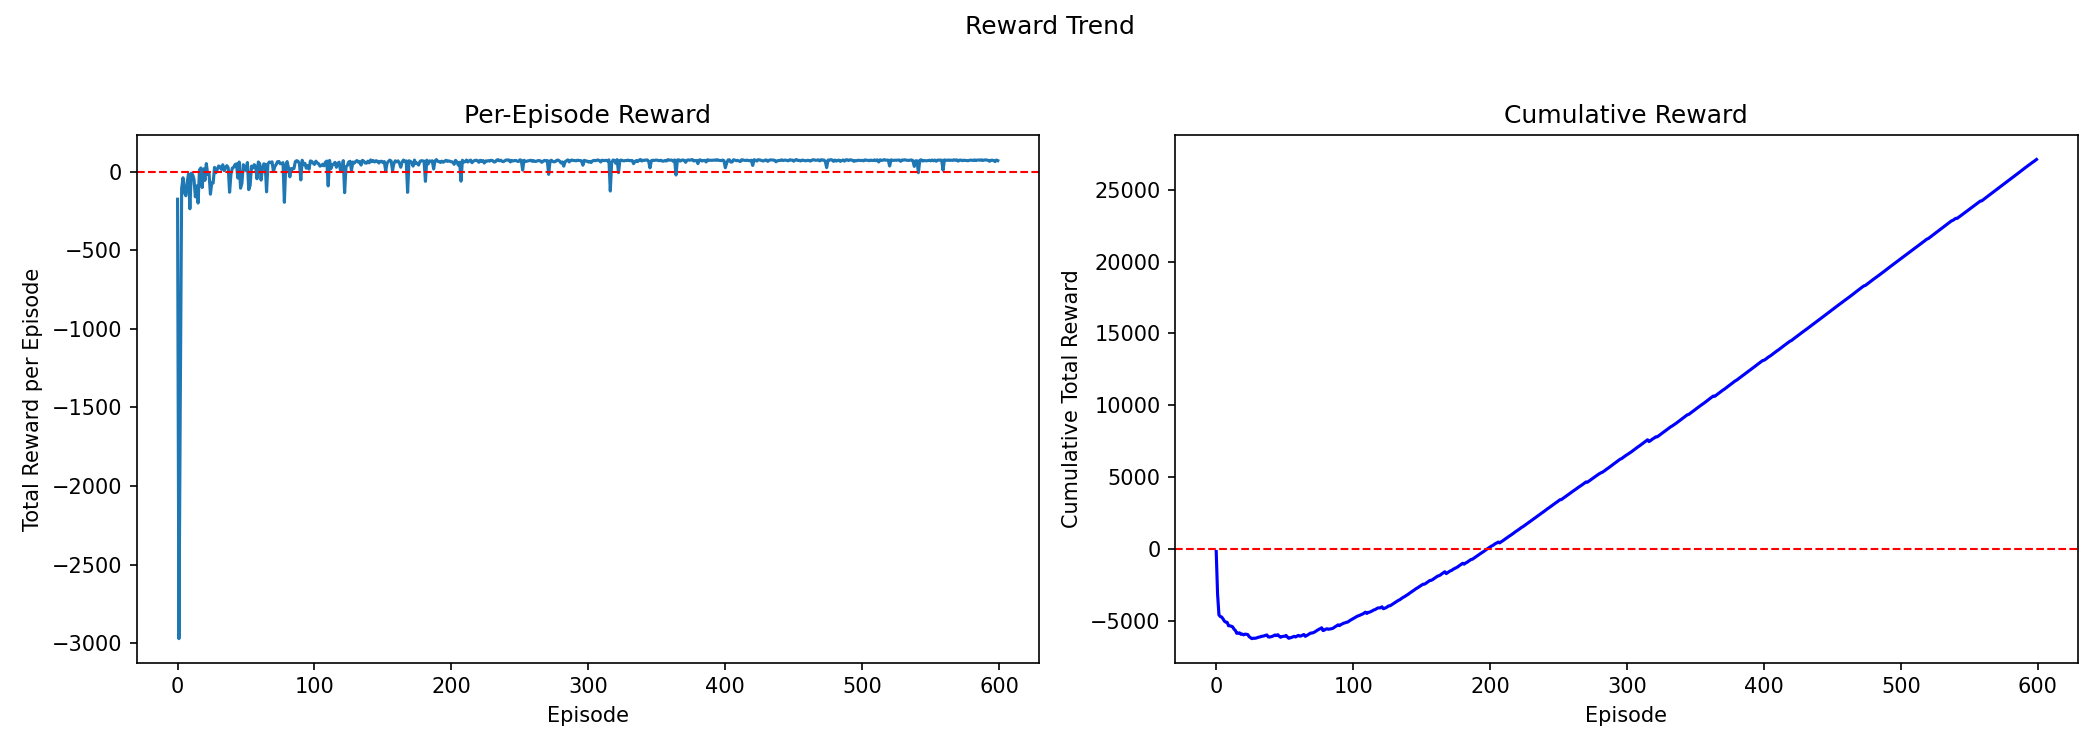
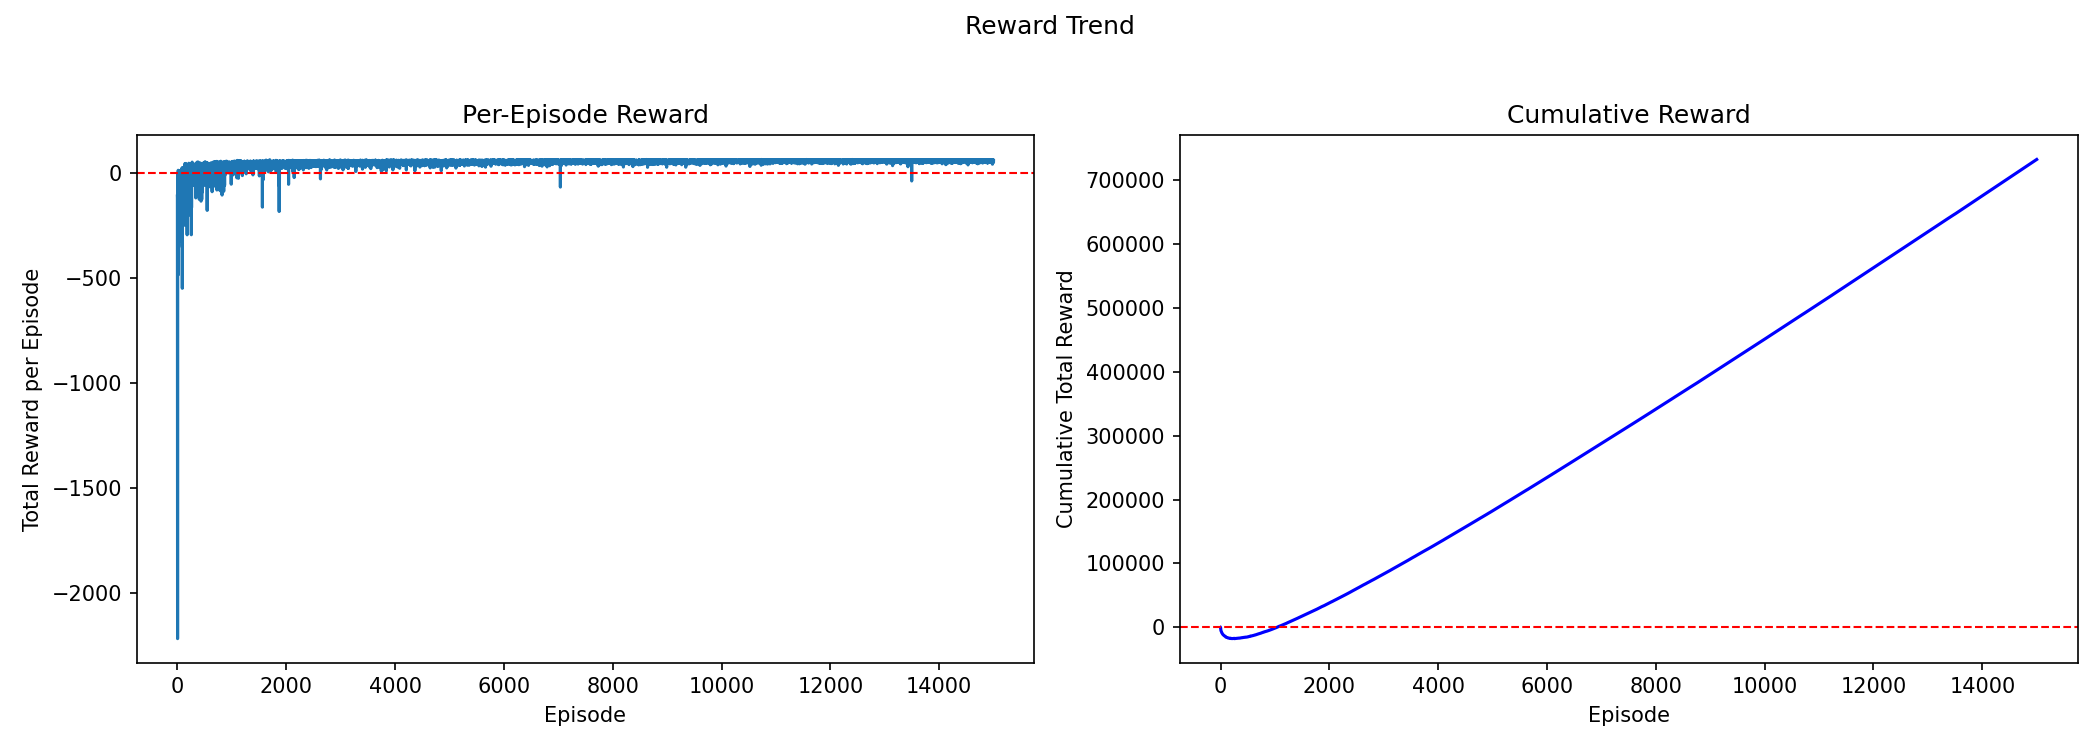
tuning + good shaping

diff --git a/main.py b/main.py
@@ -354,7 +354,13 @@ class Trainer:
         if not all_collected and unpicked_objects:
             old_dist = min(self.manhattan_distance(prev_pos, obj.position) for obj in unpicked_objects)
             new_dist = min(self.manhattan_distance(current_pos, obj.position) for obj in unpicked_objects)
-            reward += 0.05 * (old_dist - new_dist)
+            #reward += 0.05 * (old_dist - new_dist)
+            if new_dist < old_dist:
+                reward += 0.15 # getting closer
+            elif new_dist > old_dist:
+                reward -= 0.15 # wrong direction penalty
+            else:
+                reward -= 0.35 # no movement penalty
 
             # Penalize moving toward the station before all objects are collected
             old_station = self.manhattan_distance(prev_pos, self.grid.delivery_station)
@@ -365,7 +371,13 @@ class Trainer:
         elif all_collected:
             old_station = self.manhattan_distance(prev_pos, self.grid.delivery_station)
             new_station = self.manhattan_distance(current_pos, self.grid.delivery_station)
-            reward += 0.05 * (old_station - new_station)
+            #reward += 0.05 * (old_station - new_station)
+            if new_station < old_station:
+                reward += 0.4
+            elif new_station >= old_station:
+                reward -= 0.3 # do not move further from station after collecting all objects
+            else:
+                reward -= 0.2 # no movement penalty
 
         return reward
 
@@ -396,6 +408,7 @@ class Trainer:
         actions = self.get_joint_action(joint_action_idx)
         total_reward = 0
         previous_positions = [agent.position for agent in self.grid.agents]
+        agents_getting_closer = 0
         outcome = []
         
         # Apply actions
@@ -411,21 +424,40 @@ class Trainer:
         reached_goal = False
 
         for (agent,prev_pos), (success, attempted_position) in zip(zip(self.grid.agents, previous_positions), outcome):
+            
             if not success: # wall or out of bounds
                 total_reward -= 0.5
+           
             else:
                 is_picked = False # flag for a picked object
+                
                 for obj in self.grid.objects:
                     if not obj.picked and agent.position == obj.position:
                         obj.set_picked(True)
-                        total_reward += 10 # Reward for one picked object 
+                        total_reward += 8 # Reward for one picked object 
                         is_picked = True
                         break
+                
                 if not is_picked:
                     total_reward -= 0.04
 
                 # Add potential-based attraction reward
                 total_reward += self.dynamic_reward(prev_pos, agent.position, unpicked_objects, all_collected)
+
+                if not all_collected and unpicked_objects:
+                    old_dist = min(self.manhattan_distance(prev_pos, obj.position) for obj in unpicked_objects)
+                    new_dist = min(self.manhattan_distance(agent.position, obj.position) for obj in unpicked_objects)
+
+                    if new_dist < old_dist:
+                        agents_getting_closer += 1
+
+        if not all_collected: # forcing both agents to contribute to the task
+            if agents_getting_closer == len(self.grid.agents):
+                total_reward += 0.5
+            elif agents_getting_closer == 1:
+                total_reward -= 0.4
+            else:
+                total_reward -= 0.8
 
         # Recompute object status after any pickups
         unpicked_objects = []
@@ -442,7 +474,7 @@ class Trainer:
 
             all_on_station = all(agent.position == self.grid.delivery_station for agent in self.grid.agents)
             if all_on_station:
-                total_reward += 50  # goal reward
+                total_reward += 30  # goal reward
                 reached_goal = True
 
         return total_reward, reached_goal
@@ -552,13 +584,14 @@ class Trainer:
             nonlocal done
             
             ax.clear()
+            ax.set_title(f"Frame {frame}")
             # Show first frame with initial grid
             if frame == 0:
                 self.grid.plot_grid(fig=fig, ax=ax)
                 return []
             
             state = self.get_state_index()
-            action = self.select_action(state)
+            action = np.argmax(self.q_table[state])
             reward, done = self.step(action)
             self.grid.plot_grid(fig=fig, ax=ax)
             return []
@@ -571,12 +604,12 @@ if __name__ == "__main__":
 
 # - - - HYPERPARAMETERS CONFIGURATION - - -
     
-    HP_C1 = 10000
-    HP_C2 = 35000
-    HP_D1 = 25000
-    HP_D2 = 25000 # d1 e d2 vanno messi alti
+    HP_C1 = 101000
+    HP_C2 = 202000
+    HP_D1 = 250000
+    HP_D2 = 250000 # d1 e d2 vanno messi alti
     HP_GAMMA = 0.9
-    HP_EPISODES = 600
+    HP_EPISODES = 15000
 
     g = Grid(8)
     g.populate(AGENTS, OBJECTS)
@@ -641,7 +674,7 @@ if __name__ == "__main__":
     print("Starting demo ...")
     while not done and steps < 100000:
         state = trainer.get_state_index()
-        action = trainer.select_action(state)
+        action = np.argmax(trainer.q_table[state])
         reward, done = trainer.step(action)
         steps += 1
         # g.render()

diff --git a/README.md b/README.md
@@ -5,10 +5,12 @@
 The goal of this project work is to implement the Q-learning algorithm, in the tabular sense, in a grid world consisting which simulates in a roughly way a warehouse with walls, two agents, three packages and a delivey station.
 
 Q-learning is a reinforcement learning algorithm that trains one or more agents to assign values to its possible actions based on its current state, without requiring a model of the environment.
-The first theoretical step is to write Bellman's optimality equation with respect to the optimal action value function: 
+The first theoretical step is to write Bellman's optimality equation with respect to the optimal action value function:
+
 $$Q^\circ(x, u) = r(x, u) + \gamma \sum_{x'\in X} \varphi(x' | x, u) \max_{u'} Q^\circ(x', u')$$
 
 Where:
+
 - $X$ is the state space.
 - $U$ is the action space.
 - $r(x, u)$ is the instant reward at the current istant.
@@ -19,12 +21,14 @@ Where:
 Note that this formula calculates the expected value of a maximum and is therefore suitable for sample implementation.
 
 Working with a grid the following assumptions apply:
+
 - $X$ of finite and discrete size.
 - $U$ of finite and discrete size.
 
 Then, having sufficient memory and given those assumptions, the optimal action value function can be represented as a matrix which links every pair action-value. The matrix has rows equal to the number of states and columns equal to the number of actions.
 
 The algorithm consists of the following steps:
+
 1. At time t, we are in state $x(t)$, we apply the action $u(t)$ and w observe the reward $r(t)$ and the new state $x(t+1)$.
 
 2. We update the estimated value of the pair $(x(t), u(t))$ using Temporal Difference:
@@ -32,11 +36,13 @@ The algorithm consists of the following steps:
 ```math
 \hat{Q}_{t+1}(x(t), u(t)) = r(t) + \gamma \max_{u'} Q_t(x(t+1), u')
 ```
+
 ```math
 Q_{t+1}(x(t), u(t)) = Q_t(x(t), u(t)) + \alpha(t)[\hat{Q}_{t+1}(x(t), u(t)) - Q_t(x(t), u(t))]
 ```
 
 where:
+
 - $\hat{Q}_{t+1}(x(t), u(t))$ sample estimate of $Q^\circ(x, u)$
 - $\gamma$ discount factor
 - $\alpha(t)$ learning rate
@@ -47,9 +53,9 @@ where:
 {Q}_{t+1}(x,u) = {Q}_{t}(x,u) if (x,u) \neq (x(t), u(t))
 ```
 
-Being this an off policy method we want to find the optimal policy. The action value function found in the algorithm converge to the optimal one if: 
-1. All the action-state pairs are visited endlessly. This is guaranteed by an $\epsilon$-greedy policy. This policy allow to choose randomly between a greedy action or a random one.
-2. The learning rate decreases sufficiently slowly. This is guaranteed if we chose $\alpha = \frac{c_{1}}{c_{2} + t}$. Where t is the current iteration.
+Being this an off policy method we want to find the optimal policy. The action value function found in the algorithm converge to the optimal one if:
+    1. All the action-state pairs are visited endlessly. This is guaranteed by an $\epsilon$-greedy policy. This policy allow to choose randomly between a greedy action or a random one.
+    2. The learning rate decreases sufficiently slowly. This is guaranteed if we chose $\alpha = \frac{c_{1}}{c_{2} + t}$. Where t is the current iteration.
 
 ## Implementation
 
@@ -68,48 +74,49 @@ The goal of the agents is to pick every object and then 'deliver' them to the st
 </p>
 
 The shaping of the reward has been done in the following way:
-- When the agents crush into a wall or would have gone out of bound a reward of -0.5 is given, so that those events are avoided.
-- A reward of of -0.04 is given for every empty cell so that agents are encouraged to explore.
-- When an object is picked a reward of +10 is given.
-- When both of them are on the delivery station and they have picked all of the objects the goal is reached and they recieve a reward of +50.
+    - When the agents crush into a wall or would have gone out of bound a reward of -0.5 is given, so that those events are avoided.
+    - A reward of of -0.04 is given for every empty cell so that agents are encouraged to explore.
+    - When an object is picked a reward of +10 is given.
+    - When both of them are on the delivery station and they have picked all of the objects the goal is reached and they recieve a reward of +50.
 
 Since it has been observed during sperimentation that the main problem was getting stuck in local minimums and the Q-table was sparse, it has been decided to implement some potential-based rewards using a simple Manhattan attraction. So, all of the objects have an attractive potential that is turned of singularly when one of them in picked. After every one of them is picked a potential for the delivey station is activated. In both cases a reward of +0.05 is given for getting closer the current 'subgoal'.
 
-To avoid a rapid decay of epsilon like with the classic formula $\epsilon = \frac{1}{t}$, it has been implemented as: 
+To avoid a rapid decay of epsilon like with the classic formula $\epsilon = \frac{1}{t}$, it has been implemented as:
 $\epsilon = \frac{d_1}{d_2+t}$.
 
 These measures have proven effective in avoiding local minima.
 
-# Final considerations
+In the reward shaping progress, a component has been added where agents getting closer to the targets recieve a positive reward while agents getting further from the targets recieve a negative one.
+
+## Final considerations
 
 After some hyperparameters tuning the agents seem to learn the optimal policy.
 
     Final hyperparameters:
-    - c1 = 10000
-    - c2 = 35000
-    - d1 = 25000
-    - d2 = 25000 
+    - c1 = 101000
+    - c2 = 202000
+    - d1 = 250000
+    - d2 = 250000
     - gamma = 0.9
-    - episodes = 600 
+    - episodes = 15000
 
 <p align="center">
 <img src="img/training_reward_trend.png" width="500" alt="Agents moving in the grid in search of the objects">
 </p>
 
 As it can been seen from the graphs representing the total reward:
+
 - The total reward for single episode grows rapidly and after some fluctuations grows very slowly gradually reaching a maximum value. This maximum value represents the fact that the optimal policy has been learned.
 - The total cumulative reward behavior is also convincing because it has a fluctuation caused by the bigger exploration of the policy in the first part of the training and then it stabilised assuming a linear trend.
 
 <p align="center">
-<img src="img/600_episodes_c1_10000_c2_35000_d1_25000_d2_25000.gif" width="500" alt="Agents moving in the grid in search of the objects">
+<img src="img/15000_episodes_c1_101000_c2_202000_d1_250000_d2_250000.gif" width="500" alt="Agents moving in the grid in search of the objects">
 </p>
 
-At the end of multiple different trainings, where the optimal parameters have been applied, the convergence averaged between 40–45 steps.
+At the end of multiple different trainings, where the optimal parameters have been applied, a local optimum has been found at exactly 23 steps.
 
 ## Future challenges
 
 During the experimentation a specific behavior of the agents emerged. Only one of the agents tends to pick the three objects while the other waits until the end when it heads to the delivery station.
 
-Optimizing the behavior of the second agent is likely to result in faster convergence.
-
-
+Optimizing the behavior of the second agent is likely to result in faster convergence. An example could be assign a specific object to one target so that only that agents should pick it. That could force the real collaborative approach, avoiding the lazy behavior.
